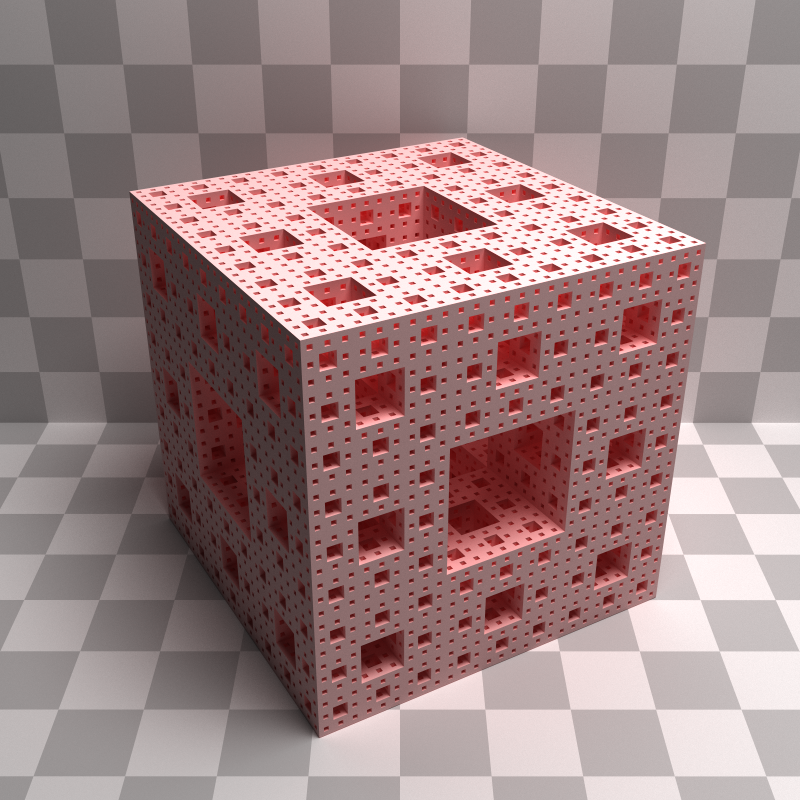
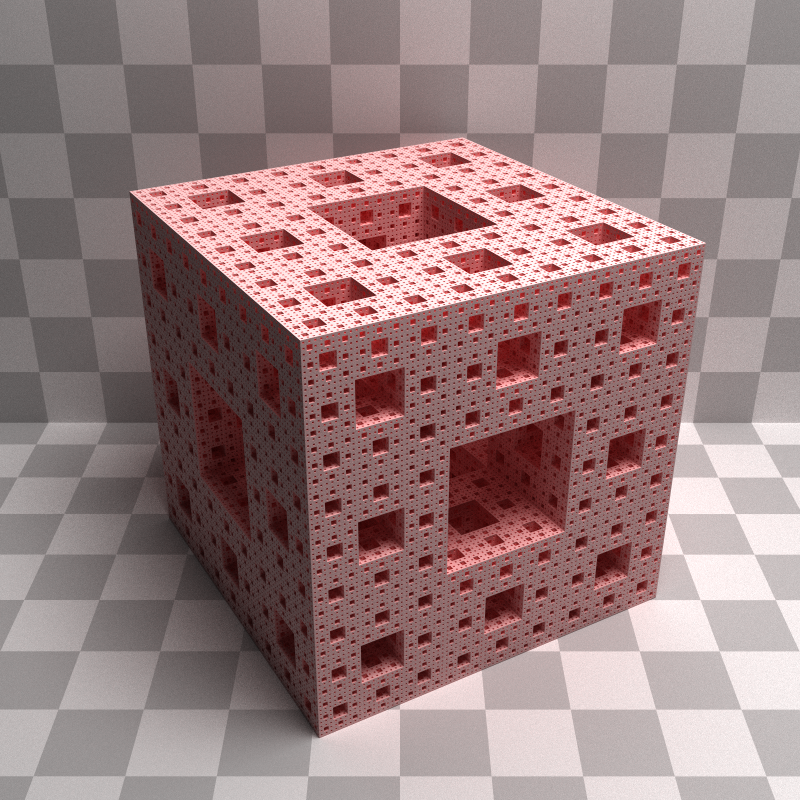
resultsの画像差し替え（Menger深さ5）

diff --git a/src/scenes/menger.rs b/src/scenes/menger.rs
@@ -65,7 +65,7 @@ pub fn scene(aspect_ratio: f32) -> Scene {
     let cube_recs = menger_rectangles(
         &Vec3::new(-2.0, 0.0, -2.0),
         &Vec3::new(4.0, 4.0, 4.0),
-        1,
+        5,
         lambert.clone(),
         0,
     );
@@ -81,11 +81,16 @@ pub fn scene(aspect_ratio: f32) -> Scene {
         1.0,
     ));
     objs.push(cube);
+    let look_along = na::normalize(
+        &(nalgebra::Rotation3::new(Vec3::new(0.0, std::f32::consts::FRAC_PI_6, 0.0))
+            * Vec3::new(3.0, 1.0, -1.0)),
+    );
     let objs = Arc::new(HitableList::new(objs));
-    let look_from = Vec3::new(0.0, 7.5, 10.0);
-    let look_at = Vec3::new(0.0, 2.0, 0.0);
-    // let look_from = Vec3::new(0.0, 2.0, 0.0);
-    // let look_at = Vec3::new(1.0, 2.0, 0.0);
+    // let look_from = Vec3::new(0.0, 7.5, 10.0);
+    // let look_at = Vec3::new(0.0, 2.0, 0.0);
+    let look_from =
+        Vec3::new(0.0, 2.0, 0.0) - look_along * f32::sqrt(11.0) * 2.0 / 3.0 + 0.1 * look_along;
+    let look_at = look_from + look_along;
     let dist_to_focus = 5.0;
     let vfov = 40.0;
     let camera = Camera::new_time(

diff --git a/src/main.rs b/src/main.rs
@@ -104,13 +104,13 @@ fn trace_rays(
 
 fn main() {
     let start_time = Instant::now();
-    const IMAGE_WIDTH: i32 = 200;
-    const IMAGE_HEIGHT: i32 = 200;
+    const IMAGE_WIDTH: i32 = 800;
+    const IMAGE_HEIGHT: i32 = 800;
     let aspect = IMAGE_WIDTH as f32 / IMAGE_HEIGHT as f32;
-    const RAYS_PER_PIXEL: i32 = 100;
+    const RAYS_PER_PIXEL: i32 = 2000;
     const THREAD_CNT: i32 = 4;
-    const REPORT_INTERVAL: i32 = 100;
-    const FILE_PATH_PREFIX: &'static str = "debug_images/image_";
+    const REPORT_INTERVAL: i32 = 200;
+    const FILE_PATH_PREFIX: &'static str = "menger_201905130001/image_";
     if get_output_dir_if_exists(Path::new(FILE_PATH_PREFIX)).is_none() {
         println!(
             "Wrong FILE_NAME (directory not exist): {}",
